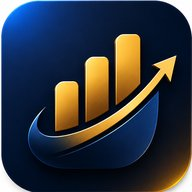
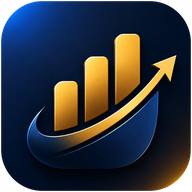
Casca genérica do HFM: sem endereço fixo, visual do app, ícones PNG reais
- index.html: endereço do app via #app= ou campo; só aceita script.google.com/.../exec
- manifest.json: standalone, ícones any + maskable
- ícones refeitos em PNG real (os anteriores eram JPEG com cantos brancos)
- apple-touch-icon e favicon-48 adicionados

Claude-Session: https://claude.ai/code/session_01X2321ttTxT91pHNhTgyAd6

diff --git a/index.html b/index.html
@@ -1,102 +1,211 @@
 <!DOCTYPE html>
 <html lang="pt-BR">
 <head>
-  <meta charset="UTF-8">
-  <meta name="viewport" content="width=device-width, initial-scale=1.0">
-  <title>Home Finance Manager</title>
-  <link rel="manifest" href="manifest.json">
-  <meta name="theme-color" content="#0D1E70">
-  <meta name="mobile-web-app-capable" content="yes">
-  <meta name="apple-mobile-web-app-capable" content="yes">
-  <meta name="apple-mobile-web-app-status-bar-style" content="black-translucent">
-  <meta name="apple-mobile-web-app-title" content="HFM">
-  <link rel="apple-touch-icon" href="icon-192.png">
-  <link rel="icon" type="image/png" sizes="512x512" href="icon-512.png">
-  <link rel="icon" type="image/png" sizes="192x192" href="icon-192.png">
-  <style>
-    *{margin:0;padding:0;box-sizing:border-box}
-    body{min-height:100vh;overflow:hidden;font-family:'Segoe UI',Arial,sans-serif;color:#fff;background:linear-gradient(145deg,#03091f,#07153f 55%,#0b1e50)}
-    .shell{min-height:100vh;position:relative;display:grid;place-items:center;padding:30px 22px;overflow:hidden}
-    .shell:before{content:"";position:absolute;inset:0;opacity:.18;background:radial-gradient(circle at 50% 18%,#638cff 0,transparent 30%);pointer-events:none}
-    .ambient{position:absolute;border-radius:50%;filter:blur(2px);pointer-events:none}.ambient-a{width:420px;height:420px;right:-210px;top:-170px;background:rgba(38,94,210,.18)}.ambient-b{width:340px;height:340px;left:-210px;bottom:-190px;background:rgba(232,170,47,.08)}
-    .hero{width:min(680px,100%);position:relative;text-align:center;z-index:1}
-    .brand-mark{width:72px;height:72px;margin:0 auto 25px;border-radius:20px;padding:1px;background:linear-gradient(145deg,rgba(255,255,255,.22),rgba(255,255,255,.04));box-shadow:0 20px 60px rgba(0,0,0,.28)}
-    .brand-mark img{width:100%;height:100%;border-radius:19px;display:block}
-    .eyebrow{font-size:10px;letter-spacing:4px;font-weight:700;color:#b9c9ee;margin-bottom:20px;opacity:.72}
-    h1{font-size:clamp(42px,7vw,72px);line-height:.98;letter-spacing:-3px;font-weight:700}h1 span{color:#dce6ff}
-    .intro{max-width:500px;margin:24px auto 34px;color:#aebbd8;font-size:15px;line-height:1.7}
-    .actions{display:flex;flex-direction:column;align-items:center}
-    .btn-primary{min-width:240px;padding:15px 20px;border:0;border-radius:14px;cursor:pointer;display:flex;justify-content:center;gap:22px;align-items:center;color:#07133f;background:linear-gradient(135deg,#f4c65d,#df9820);font-size:15px;font-weight:700;box-shadow:0 12px 34px rgba(226,160,42,.2);transition:transform .2s,box-shadow .2s}
-    .btn-primary:hover{transform:translateY(-2px);box-shadow:0 16px 42px rgba(226,160,42,.3)}.arrow{font-size:20px;font-weight:400}
-    .counter{margin-top:12px;font-size:10px;color:#8191b7;letter-spacing:.4px}
-    .install-box{display:none;max-width:430px;margin:24px auto 0;padding:14px 16px;border:1px solid rgba(255,255,255,.09);border-radius:14px;background:rgba(255,255,255,.045);backdrop-filter:blur(14px);align-items:center;justify-content:space-between;gap:14px;text-align:left}
-    .install-box.visible{display:flex}.install-copy{display:flex;flex-direction:column;gap:3px}.install-copy strong{font-size:12px}.install-copy span{font-size:11px;color:#8796ba}
-    .btn-install{border:1px solid rgba(244,198,93,.35);background:rgba(244,198,93,.12);color:#f4c65d;border-radius:9px;padding:9px 13px;font-weight:700;cursor:pointer}
-    .features{display:flex;justify-content:center;gap:42px;margin:48px auto 0;padding-top:22px;border-top:1px solid rgba(255,255,255,.08);max-width:560px}.features div{display:flex;flex-direction:column;gap:6px}.features b{font-size:9px;letter-spacing:2px;color:#e8aa2f}.features span{font-size:11px;color:#8f9fbe}
-    footer{position:absolute;bottom:18px;font-size:9px;letter-spacing:1.5px;color:#637292;z-index:1}footer span{margin:0 7px;color:#c28b25}
-    @media(max-width:560px){.shell{padding:26px 18px 48px}.brand-mark{width:62px;height:62px;margin-bottom:22px}h1{font-size:44px;letter-spacing:-2px}.intro{font-size:13px;margin:20px auto 28px}.features{gap:22px;margin-top:40px}.features span{font-size:10px}.install-box.visible{align-items:flex-start}.btn-install{white-space:nowrap}}
-  </style>
+<meta charset="utf-8">
+<meta name="viewport" content="width=device-width, initial-scale=1, viewport-fit=cover">
+<title>Home Finance Manager</title>
+<meta name="description" content="Home Finance Manager — gestão financeira familiar.">
+<meta name="robots" content="noindex">
+<link rel="manifest" href="manifest.json">
+<meta name="theme-color" content="#051840">
+<meta name="mobile-web-app-capable" content="yes">
+<meta name="apple-mobile-web-app-capable" content="yes">
+<meta name="apple-mobile-web-app-status-bar-style" content="black-translucent">
+<meta name="apple-mobile-web-app-title" content="HFM">
+<meta name="referrer" content="no-referrer">
+<link rel="apple-touch-icon" href="apple-touch-icon.png">
+<link rel="icon" type="image/png" sizes="48x48" href="favicon-48.png">
+<link rel="icon" type="image/png" sizes="192x192" href="icon-192.png">
+<link rel="preconnect" href="https://fonts.googleapis.com">
+<link href="https://fonts.googleapis.com/css2?family=Plus+Jakarta+Sans:wght@400;500;600;700;800&display=swap" rel="stylesheet">
+<style>
+  /* Tokens iguais aos do app (Design System HFM) */
+  :root{--bg:#051840;--bg2:#06122a;--card:#0d1f3d;--card2:#112749;--line:rgba(148,178,220,.18);--ink:#eef4fc;--ink2:#aebed6;--ink3:#7f92ad;--blue:#2d6be4;--blue2:#4f93ff;--amber:#fca311;--green:#3ecf8e;--red:#ff7b7b}
+  *{box-sizing:border-box;margin:0;padding:0}
+  html,body{min-height:100%}
+  body{
+    background:
+      radial-gradient(900px 480px at 12% -8%,rgba(45,107,228,.26),transparent 60%),
+      radial-gradient(700px 420px at 100% 112%,rgba(252,163,17,.11),transparent 60%),
+      var(--bg2);
+    color:var(--ink);
+    font:15px/1.55 'Plus Jakarta Sans',system-ui,-apple-system,'Segoe UI',Roboto,sans-serif;
+    -webkit-font-smoothing:antialiased;
+  }
+  .shell{min-height:100vh;min-height:100dvh;display:flex;flex-direction:column;align-items:center;justify-content:center;padding:max(28px,env(safe-area-inset-top)) 20px max(28px,env(safe-area-inset-bottom))}
+  .hero{width:min(460px,100%);text-align:center}
+  .mark{width:84px;height:84px;margin:0 auto 20px;border-radius:22.5%;display:block;box-shadow:0 18px 44px rgba(0,0,0,.45),0 0 0 1px rgba(255,255,255,.08)}
+  h1{font-size:clamp(30px,8vw,40px);line-height:1.08;font-weight:800;letter-spacing:-.035em}
+  h1 em{font-style:normal;color:#638cff}
+  .tag{margin:10px auto 26px;max-width:380px;color:var(--ink2);font-size:14px}
+
+  .card{background:linear-gradient(180deg,var(--card2),var(--card));border:1px solid var(--line);border-radius:18px;padding:20px 18px;text-align:left;box-shadow:0 22px 50px -28px rgba(0,0,0,.7)}
+  .card h2{font-size:16px;font-weight:800;letter-spacing:-.01em;margin-bottom:4px}
+  .card p{color:var(--ink2);font-size:13px}
+  .stack{display:grid;gap:10px}
+  .btn{display:flex;align-items:center;justify-content:center;gap:12px;width:100%;font:inherit;font-weight:800;font-size:15px;border:0;cursor:pointer;border-radius:13px;padding:14px 20px;text-decoration:none;transition:transform .16s ease,box-shadow .16s ease,background .16s ease}
+  .btn:focus-visible,.lnk:focus-visible,input:focus-visible{outline:3px solid var(--blue2);outline-offset:2px}
+  .pri{background:linear-gradient(180deg,#ffc04d,#fca311);color:#1a1000;box-shadow:0 10px 26px -12px rgba(252,163,17,.85)}
+  .pri:hover{transform:translateY(-1px);box-shadow:0 14px 30px -12px rgba(252,163,17,.95)}
+  .sec{background:rgba(45,107,228,.14);color:#cfe0ff;border:1px solid rgba(79,147,255,.4)}
+  .sec:hover{background:rgba(45,107,228,.24)}
+  .btn[disabled]{opacity:.6;cursor:wait}
+  .lnk{background:none;border:0;color:var(--blue2);font:inherit;font-weight:600;font-size:13px;cursor:pointer;text-decoration:underline;padding:6px 2px}
+  .row{display:flex;justify-content:center;gap:18px;flex-wrap:wrap;margin-top:6px}
+
+  label{display:block;font-size:12px;font-weight:700;color:var(--ink2);margin:14px 0 6px;letter-spacing:.02em}
+  input{width:100%;background:#0a1830;border:1px solid var(--line);border-radius:12px;color:var(--ink);padding:12px 13px;font:13px 'DM Mono',ui-monospace,Menlo,Consolas,monospace}
+  input::placeholder{color:#5f738f}
+  input:focus{border-color:rgba(79,147,255,.7)}
+  .msg{min-height:18px;margin:8px 2px 0;font-size:12.5px;color:var(--ink2)}
+  .msg.err{color:var(--red)}
+  .help{margin-top:14px;padding:12px 13px;border:1px solid var(--line);border-radius:13px;background:rgba(255,255,255,.04);font-size:12.5px;color:var(--ink2)}
+  .help b{color:var(--ink)}
+
+  .ios{margin-top:12px;padding:13px 14px;border:1px solid rgba(252,163,17,.35);border-radius:14px;background:rgba(252,163,17,.08);text-align:left;font-size:12.5px;color:var(--ink2)}
+  .ios strong{display:block;color:var(--ink);font-size:13px;margin-bottom:4px}
+  .ios ol{padding-left:18px;display:grid;gap:3px}
+  .note{margin:16px auto 0;max-width:380px;font-size:11.8px;color:var(--ink3)}
+  .abrindo{display:flex;align-items:center;justify-content:center;gap:10px;color:var(--ink2);font-size:14px;margin-bottom:12px}
+  .spin{width:15px;height:15px;border:2px solid rgba(255,255,255,.28);border-top-color:#fff;border-radius:50%;animation:sp .8s linear infinite}
+  @keyframes sp{to{transform:rotate(360deg)}}
+  footer{margin-top:30px;font-size:11px;letter-spacing:.08em;color:var(--ink3)}
+  footer b{color:var(--amber);font-weight:700}
+  [hidden]{display:none!important}
+  @media (prefers-reduced-motion:reduce){.spin{animation:none}.btn{transition:none}}
+</style>
 </head>
 <body>
-  <main class="shell">
-    <div class="ambient ambient-a"></div><div class="ambient ambient-b"></div>
-    <section class="hero">
-      <div class="brand-mark"><img src="icon-192.png" alt="Home Finance Manager"></div>
-      <div class="eyebrow">HOME FINANCE MANAGER</div>
-      <h1>Seu dinheiro.<br><span>Sob seu controle.</span></h1>
-      <p class="intro">Uma visão simples e elegante para organizar sua vida financeira, acompanhar seus gastos e tomar decisões com clareza.</p>
-      <div class="actions">
-        <button class="btn-primary" id="btnAcessar"><span>Acessar o sistema</span><span class="arrow">→</span></button>
-        <div class="counter" id="counter">Redirecionando em 15s…</div>
+<main class="shell">
+  <section class="hero">
+    <img class="mark" src="icon-192.png" width="84" height="84" alt="Home Finance Manager">
+    <h1>Home <em>Finance</em> Manager</h1>
+    <p class="tag">Veja para onde seu dinheiro vai — antes que ele vá.</p>
+
+    <!-- Tela 1: já sabemos o endereço do app -->
+    <div id="v-pronto" hidden>
+      <div class="abrindo" id="abrindo" hidden><span class="spin"></span>Abrindo o seu painel…</div>
+      <div class="stack">
+        <button class="btn pri" id="b-abrir" type="button"><span>Abrir o painel</span><span aria-hidden="true">→</span></button>
+        <button class="btn sec" id="b-inst" type="button" hidden>Instalar como aplicativo</button>
       </div>
-      <div class="install-box" id="installBox">
-        <div class="install-copy"><strong>Tenha o HFM na sua tela inicial</strong><span>Instale como aplicativo para acesso rápido.</span></div>
-        <button class="btn-install" id="btnInstall">Instalar</button>
+      <div class="ios" id="ios" hidden>
+        <strong>Instalar no iPhone ou iPad</strong>
+        <ol><li>Toque em <b>Compartilhar</b> (o quadrado com a seta) no Safari.</li><li>Escolha <b>Adicionar à Tela de Início</b>.</li><li>Confirme em <b>Adicionar</b>.</li></ol>
       </div>
-      <div class="features"><div><b>01</b><span>Visão clara</span></div><div><b>02</b><span>Controle simples</span></div><div><b>03</b><span>Decisões melhores</span></div></div>
-    </section>
-    <footer>Gestão Financeira Pessoal <span>•</span> HFM</footer>
-  </main>
-  <script>
-    var GAS_URL = "https://script.google.com/macros/s/AKfycbxp8-w3VOmKEV5wKjIUflzF-UEnRljCia7bsUaWrw-cXYuF4xs6yoJWwOjIe9qqylYKcQ/exec";
-    var deferredPrompt = null;
-    var seconds = 15;
+      <div class="row"><button class="lnk" id="b-trocar" type="button">Usar outro endereço de app</button></div>
+      <p class="note">Se o Google pedir login, entre com a mesma conta da sua planilha do HFM.</p>
+    </div>
 
-    window.addEventListener('beforeinstallprompt', function(e) {
-      e.preventDefault();
-      deferredPrompt = e;
-      document.getElementById('installBox').classList.add('visible');
-    });
+    <!-- Tela 2: falta o endereço -->
+    <div id="v-config" hidden>
+      <div class="card">
+        <h2>Conecte o seu app</h2>
+        <p>Cole abaixo o endereço do <b>seu</b> Home Finance Manager. Ele fica salvo só neste aparelho.</p>
+        <label for="url">Endereço do app (termina em /exec)</label>
+        <input id="url" type="url" inputmode="url" autocomplete="off" autocapitalize="off" spellcheck="false" placeholder="https://script.google.com/macros/s/…/exec" aria-describedby="m">
+        <div class="msg" id="m" role="status" aria-live="polite"></div>
+        <button class="btn pri" id="b-salvar" type="button">Salvar e continuar</button>
+        <div class="help">Onde encontro? Na sua planilha do HFM: menu <b>Home Finance Manager → Começar aqui</b>, passo <b>4</b>. Copie o endereço mostrado lá. Em outro aparelho, use o botão <b>Instalar no celular</b> do assistente: ele já traz o endereço preenchido.</div>
+      </div>
+    </div>
+  </section>
+  <footer>Gestão Financeira Familiar <span aria-hidden="true">•</span> <b>DevDias</b> Tech Solutions</footer>
+</main>
 
-    document.getElementById('btnInstall').addEventListener('click', function() {
-      if (deferredPrompt) {
-        deferredPrompt.prompt();
-        deferredPrompt.userChoice.then(function(r) {
-          if (r.outcome === 'accepted') window.location.href = GAS_URL;
-          deferredPrompt = null;
-        });
-      }
-    });
+<script>
+(function () {
+  'use strict';
+  var KEY = 'hfm_app_url';
+  var $ = function (id) { return document.getElementById(id); };
 
-    document.getElementById('btnAcessar').addEventListener('click', function() {
-      window.location.href = GAS_URL;
-    });
+  /* Só aceitamos endereços do Google Apps Script. Isso impede que alguém monte um link
+     #app=https://site-falso e use esta página para redirecionar para outro lugar. */
+  function validar(u) {
+    try {
+      var x = new URL(String(u || '').trim());
+      if (x.protocol !== 'https:' || x.hostname !== 'script.google.com') return '';
+      if (!/^\/(a\/[A-Za-z0-9._-]+\/)?macros\/s\/[A-Za-z0-9_-]+\/exec$/.test(x.pathname)) return '';
+      return x.origin + x.pathname;
+    } catch (e) { return ''; }
+  }
+  function ler() { try { return validar(localStorage.getItem(KEY)); } catch (e) { return ''; } }
+  function gravar(u) { try { localStorage.setItem(KEY, u); } catch (e) {} }
+  function apagar() { try { localStorage.removeItem(KEY); } catch (e) {} }
+  function doHash() {
+    var m = /[#&]app=([^&]+)/.exec(location.hash || '');
+    if (!m) return null;
+    var v; try { v = decodeURIComponent(m[1]); } catch (e) { v = ''; }
+    return validar(v);
+  }
 
-    var counterEl = document.getElementById('counter');
-    var timer = setInterval(function() {
-      seconds--;
-      if (seconds <= 0) {
-        clearInterval(timer);
-        counterEl.textContent = 'Redirecionando…';
-        window.location.href = GAS_URL;
-      } else {
-        counterEl.textContent = 'Redirecionando em ' + seconds + 's…';
-      }
-    }, 1000);
+  var standalone = (window.matchMedia && matchMedia('(display-mode: standalone)').matches) || navigator.standalone === true;
+  var ios = /iphone|ipad|ipod/i.test(navigator.userAgent) || (navigator.platform === 'MacIntel' && navigator.maxTouchPoints > 1);
+  var APP = '';
+  var promptInst = null;
 
-    if ('serviceWorker' in navigator) {
-      navigator.serviceWorker.register('sw.js');
+  function abrir() { if (APP) location.href = APP; }
+  function mostrarPronto() {
+    $('v-config').hidden = true; $('v-pronto').hidden = false;
+    $('b-abrir').onclick = abrir;
+    if (!standalone) {
+      if (ios) $('ios').hidden = false;
     }
-  </script>
+    if (standalone) {            // app instalado: vai direto para o painel
+      $('abrindo').hidden = false; $('b-abrir').focus();
+      setTimeout(abrir, 450);
+    }
+  }
+  function mostrarConfig(msg) {
+    $('v-pronto').hidden = true; $('v-config').hidden = false;
+    if (msg) { $('m').textContent = msg; $('m').className = 'msg err'; }
+    $('url').focus();
+  }
+
+  window.addEventListener('beforeinstallprompt', function (e) {
+    e.preventDefault(); promptInst = e;
+    if (APP && !standalone) $('b-inst').hidden = false;
+  });
+  window.addEventListener('appinstalled', function () { $('b-inst').hidden = true; });
+  $('b-inst').onclick = function () {
+    if (!promptInst) return;
+    promptInst.prompt();
+    promptInst.userChoice.then(function () { promptInst = null; $('b-inst').hidden = true; });
+  };
+
+  $('b-salvar').onclick = function () {
+    var v = validar($('url').value);
+    if (!v) {
+      $('m').textContent = 'Esse endereço não parece certo. Ele começa com https://script.google.com/macros/s/ e termina em /exec.';
+      $('m').className = 'msg err'; $('url').focus(); return;
+    }
+    gravar(v); APP = v;
+    try { history.replaceState(null, '', location.pathname + '#app=' + encodeURIComponent(v)); } catch (e) {}
+    mostrarPronto();
+  };
+  $('url').addEventListener('keydown', function (e) { if (e.key === 'Enter') $('b-salvar').click(); });
+  $('b-trocar').onclick = function () {
+    apagar(); APP = '';
+    try { history.replaceState(null, '', location.pathname); } catch (e) {}
+    $('url').value = ''; $('m').textContent = ''; $('m').className = 'msg';
+    mostrarConfig();
+  };
+
+  /* Prioridade: link com #app=… (instalação) > endereço salvo neste aparelho */
+  var h = doHash();
+  if (h) { gravar(h); APP = h; }
+  else {
+    APP = ler();
+    // iPhone/iPad: o atalho da Tela de Início guarda o link com #app=…; se não houver nada salvo, avisa.
+    if (!APP && /[#&]app=/.test(location.hash || '')) { mostrarConfig('O link recebido não é um endereço válido do HFM. Cole o endereço abaixo.'); return finalizar(); }
+  }
+  if (APP) mostrarPronto(); else mostrarConfig();
+  finalizar();
+
+  function finalizar() {
+    if ('serviceWorker' in navigator) { try { navigator.serviceWorker.register('sw.js').catch(function () {}); } catch (e) {} }
+  }
+})();
+</script>
 </body>
 </html>

diff --git a/sw.js b/sw.js
@@ -1,3 +1,5 @@
-self.addEventListener('install', function(e) { self.skipWaiting(); });
-self.addEventListener('activate', function(e) { e.waitUntil(clients.claim()); });
-self.addEventListener('fetch', function(e) {});
+/* HFM — service worker mínimo (necessário para a instalação como app).
+   Não guarda nada em cache: o app em si roda no Google Apps Script e sempre carrega a versão mais nova. */
+self.addEventListener('install', function () { self.skipWaiting(); });
+self.addEventListener('activate', function (e) { e.waitUntil(self.clients.claim()); });
+self.addEventListener('fetch', function () { /* rede direta */ });
